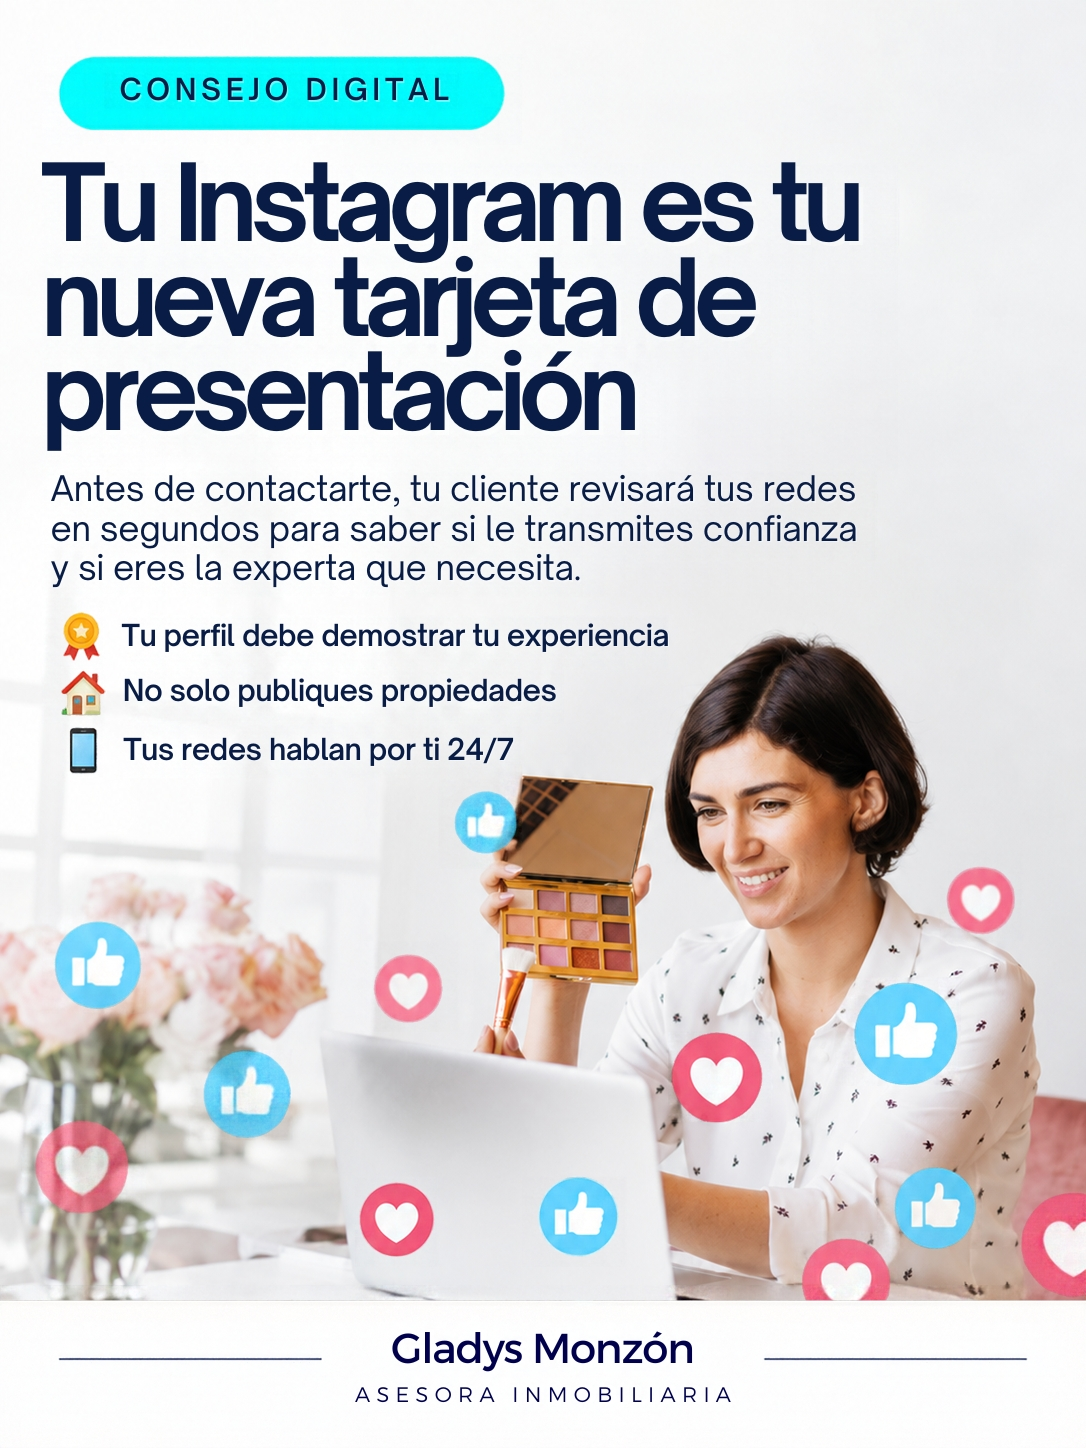
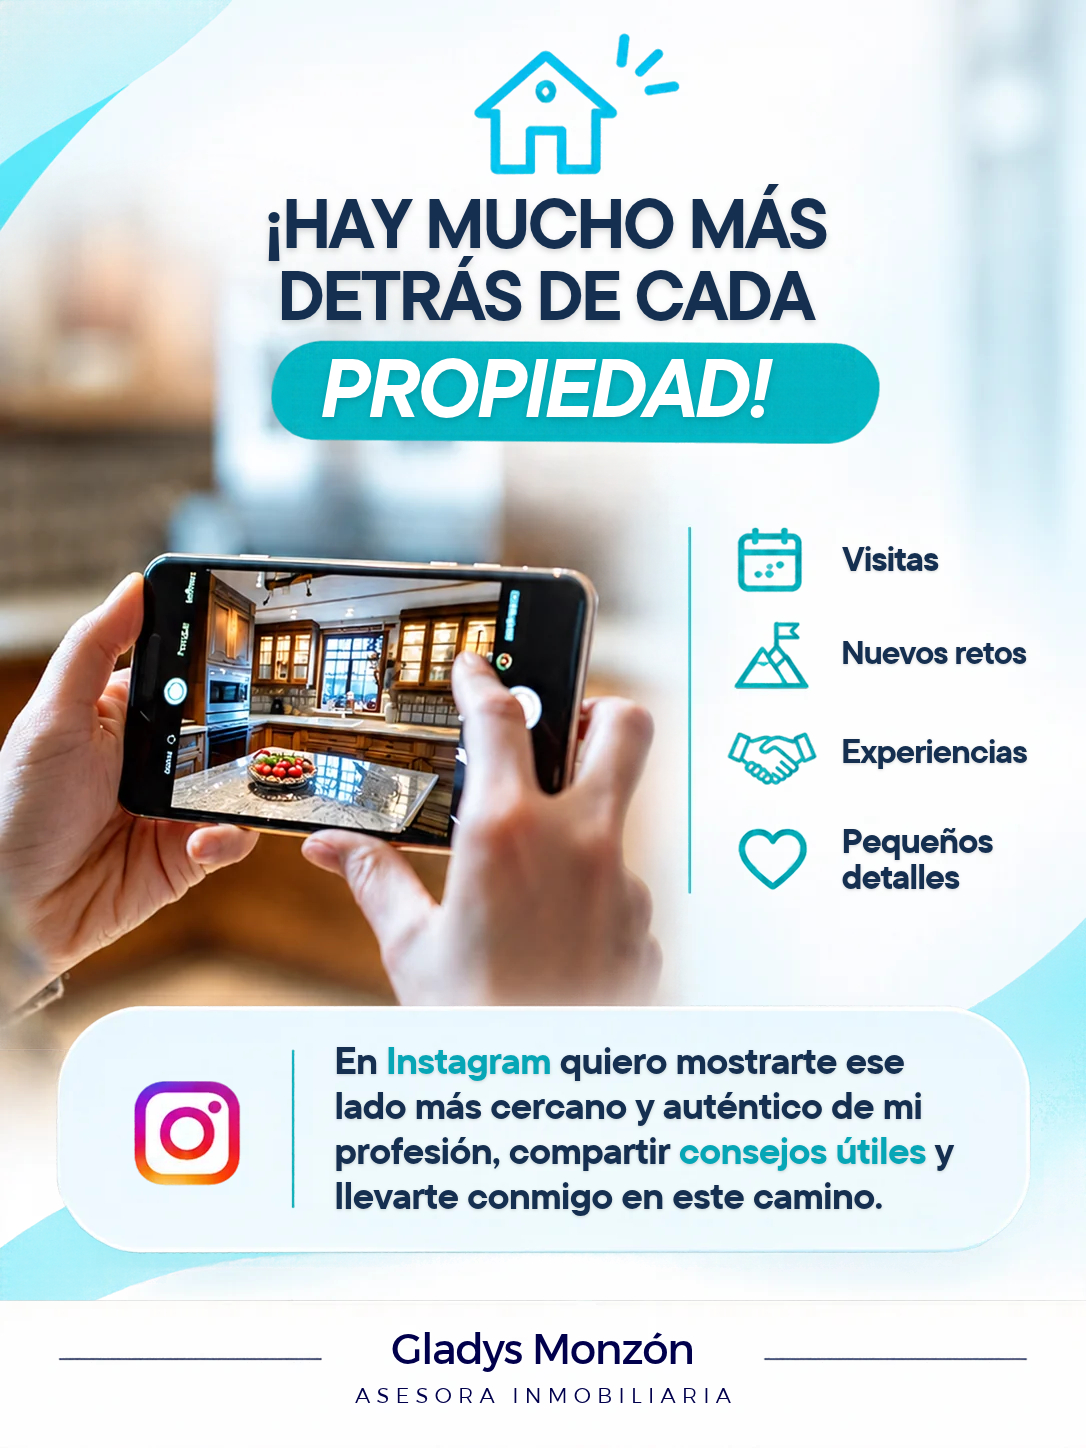
Add files via upload

diff --git a/data.js b/data.js
@@ -6,97 +6,73 @@ const CONFIG_SEMANAL = {
     whatsappPublicaciones: "994 135 860",
     whatsappDestino: "",
     titulo: "Calendario Noviembre 2026",
-    rangoFechas: "Semana del martes 03 al sábado 07 de noviembre",
+    rangoFechas: "Semana del martes 10 al sábado 14 de noviembre",
     publicaciones: [
         {
             tipo: "imagen",
-            diaSemana: "Martes 3 de noviembre",
-            imagenes: ["img/3.jpg"],
-            copy: `🔥 VENTA DE DEPARTAMENTO EN CHACARILLA
+            diaSemana: "Martes 10 de noviembre",
+            imagenes: ["img/10.jpg"],
+            copy: `🏡 EL PROFESIONALISMO NO ES SABERLO TODO.
 
-💰 USD 208,000
+Es saber escuchar, investigar y encontrar las respuestas correctas.
 
-Vive con estilo, seguridad y frente a parques en una de las mejores zonas de Surco.
+En el sector inmobiliario, la confianza no se gana aparentando experiencia, sino demostrando compromiso, transparencia y preparación.
 
-📍 Ubicación: Av. Precursores (Vista a la calle y a Batallón Tarma).
-
-✨ Detalles clave (104 m²):
-
-🛏 2 dormitorios (principal con walk-in closet y baño).
-📺 Estar familiar.
-🛋 Sala-comedor amplia con pisos de madera e iluminación natural.
-🍳 Cocina abierta tipo kitchenette.
-🚿 2 baños completos.
-🧺 Lavandería + cuarto y baño de servicio.
-🚗 1 cochera paralela techada + 📦 depósito.
-🛗 Edificio con ascensor.
-
-📩 Escríbeme al MD para ver el video y agendar tu visita.`
-        },
-
-        {
-            tipo: "video",
-            diaSemana: "Jueves 5 de noviembre",
-            imagenes: ["img/5.jpg"],
-            copy: `📲🏡 Buscar vivienda es cada vez más digital.
-
-Hoy los compradores llegan informados gracias a:
-
-🔎 Comparadores de precios.
-🎥 Recorridos virtuales.
-🤖 Herramientas de IA.
-📱 Información al instante.
-
-El rol del agente inmobiliario ya no es solo mostrar propiedades, sino guiar, asesorar y validar datos. 🧠🔑`
-        },
-
-        {
-            tipo: "video",
-            diaSemana: "Viernes 6 de noviembre",
-            imagenes: ["img/6.jpg"],
-            copy: `🏢 ALQUILER DE DEPA ESTRENO EN LINCE
-
-💰 USD 880
-
-Estrena departamento en piso 9 con balcón, vista a la calle y totalmente equipado.
-
-✨ Distribución y detalles:
-
-🛏 3 dormitorios con closet (principal con baño y cama Queen; secundarios con cama 1.5 plazas).
-🛋 Sala con TV o zona de escritorio + balcón.
-🍳 Cocina equipada con gas Cálidda.
-🧺 Centro de lavado instalado.
-🚪 Cerradura inteligente + sistema Alexa integrado.
-🚗 1 cochera en 2do sótano + 🚲 estacionamiento para bicicletas.
-
-🏙 Áreas comunes:
-
-🔥 Terraza con zona de parrillas, 🍸 sala de bar y 🏋 gimnasio.
-📩 Escríbeme al MD para ver el video o agendar una visita.`
+✨ Porque una buena asesora no improvisa respuestas, ofrece soluciones.`
         },
 
         {
             tipo: "imagen",
-            diaSemana: "Sábado 7 de noviembre",
-            imagenes: ["img/7.jpg"],
-            copy: `🌊 VENTA DE DEPA CON VISTA AL MAR EN MIRAFLORES
+            diaSemana: "Jueves 12 de noviembre",
+            imagenes: ["img/12.jpg"],
+            copy: `🏡 ¡ESTE DEPA EN SURCO PODRÍA TENER PRONTO NUEVO DUEÑO! 🌳
 
-💰 USD 480,000
+Un hermoso flat de estreno frente al parque Los Arquitectos, con excelente iluminación y espacios modernos.
 
-Vive con una vista directa al mar y a Larcomar desde el exclusivo Malecón de la Reserva.
+📍 Santiago de Surco
 
-📍 Ubicación top: Malecón de la Reserva, a pasos de la Av. Larco.
 
-✨ Detalles clave (207 m²):
+✅ 108.41 m² + balcón de 7.10 m²
+✅ 3 dormitorios y sala de estar
+✅ Cocina abierta con isla de cuarzo
+✅ Cochera doble disponible por separado
 
-🌅 Vista panorámica al mar y al Morro Solar desde todo el depa.
-🛏 3 dormitorios amplios + 📺 sala de estar / estudio.
-🛋 Ambientes espaciosos con acabados de lujo (pisos de mármol y puertas de madera sólida).
-🍳 Cocina con comedor de diario.
-🧺 Lavandería + cuarto y baño de servicio.
-🚗 Amplio estacionamiento en semisótano.
-🛗 2 ascensores (principal y de servicio).
-🛡 Seguridad 24/7 y elegante recepción.`
+✨ ¿Buscas una propiedad con estas características?
+
+📩 Escríbeme y encontremos tu próximo hogar.`
+        },
+
+        {
+            tipo: "video",
+            diaSemana: "Viernes 13 de noviembre",
+            imagenes: ["img/13.jpg"],
+            copy: `🏡✨ ¡HAY MUCHO MÁS DETRÁS DE CADA PROPIEDAD!
+
+Visitas, nuevos retos, experiencias y pequeños detalles que hacen especial mi trabajo inmobiliario.
+
+En Instagram quiero mostrarte ese lado más cercano y auténtico de mi profesión, compartir consejos útiles y llevarte conmigo en este camino.
+
+📲 ¿Me acompañas? Sígueme en Instagram y descubre todo lo que hay detrás de cada llave. 🔑`
+        },
+
+        {
+            tipo: "video",
+            diaSemana: "Sábado 14 de noviembre",
+            imagenes: ["img/14.jpg"],
+            copy: `🌿 ¡GRAN OPORTUNIDAD DE INVERSIÓN EN PACHACÁMAC!
+
+Amplio terreno en El Guayabo, ideal para quienes buscan invertir en una zona rodeada de naturaleza.
+
+📍 Ubicación: Pachacámac – El Guayabo
+💰 Precio: USD 359,000
+
+✅ 3,726 m² de terreno
+✅ Superficie plana y totalmente cercada
+✅ Ubicado junto a El Estadio
+✅ Cuenta con una construcción para demoler
+✅ Zona agrícola, con habilitación urbana indicada en la documentación
+
+✨ Un terreno con espacio y potencial para tu próximo proyecto.`
         }
     ]
 };
